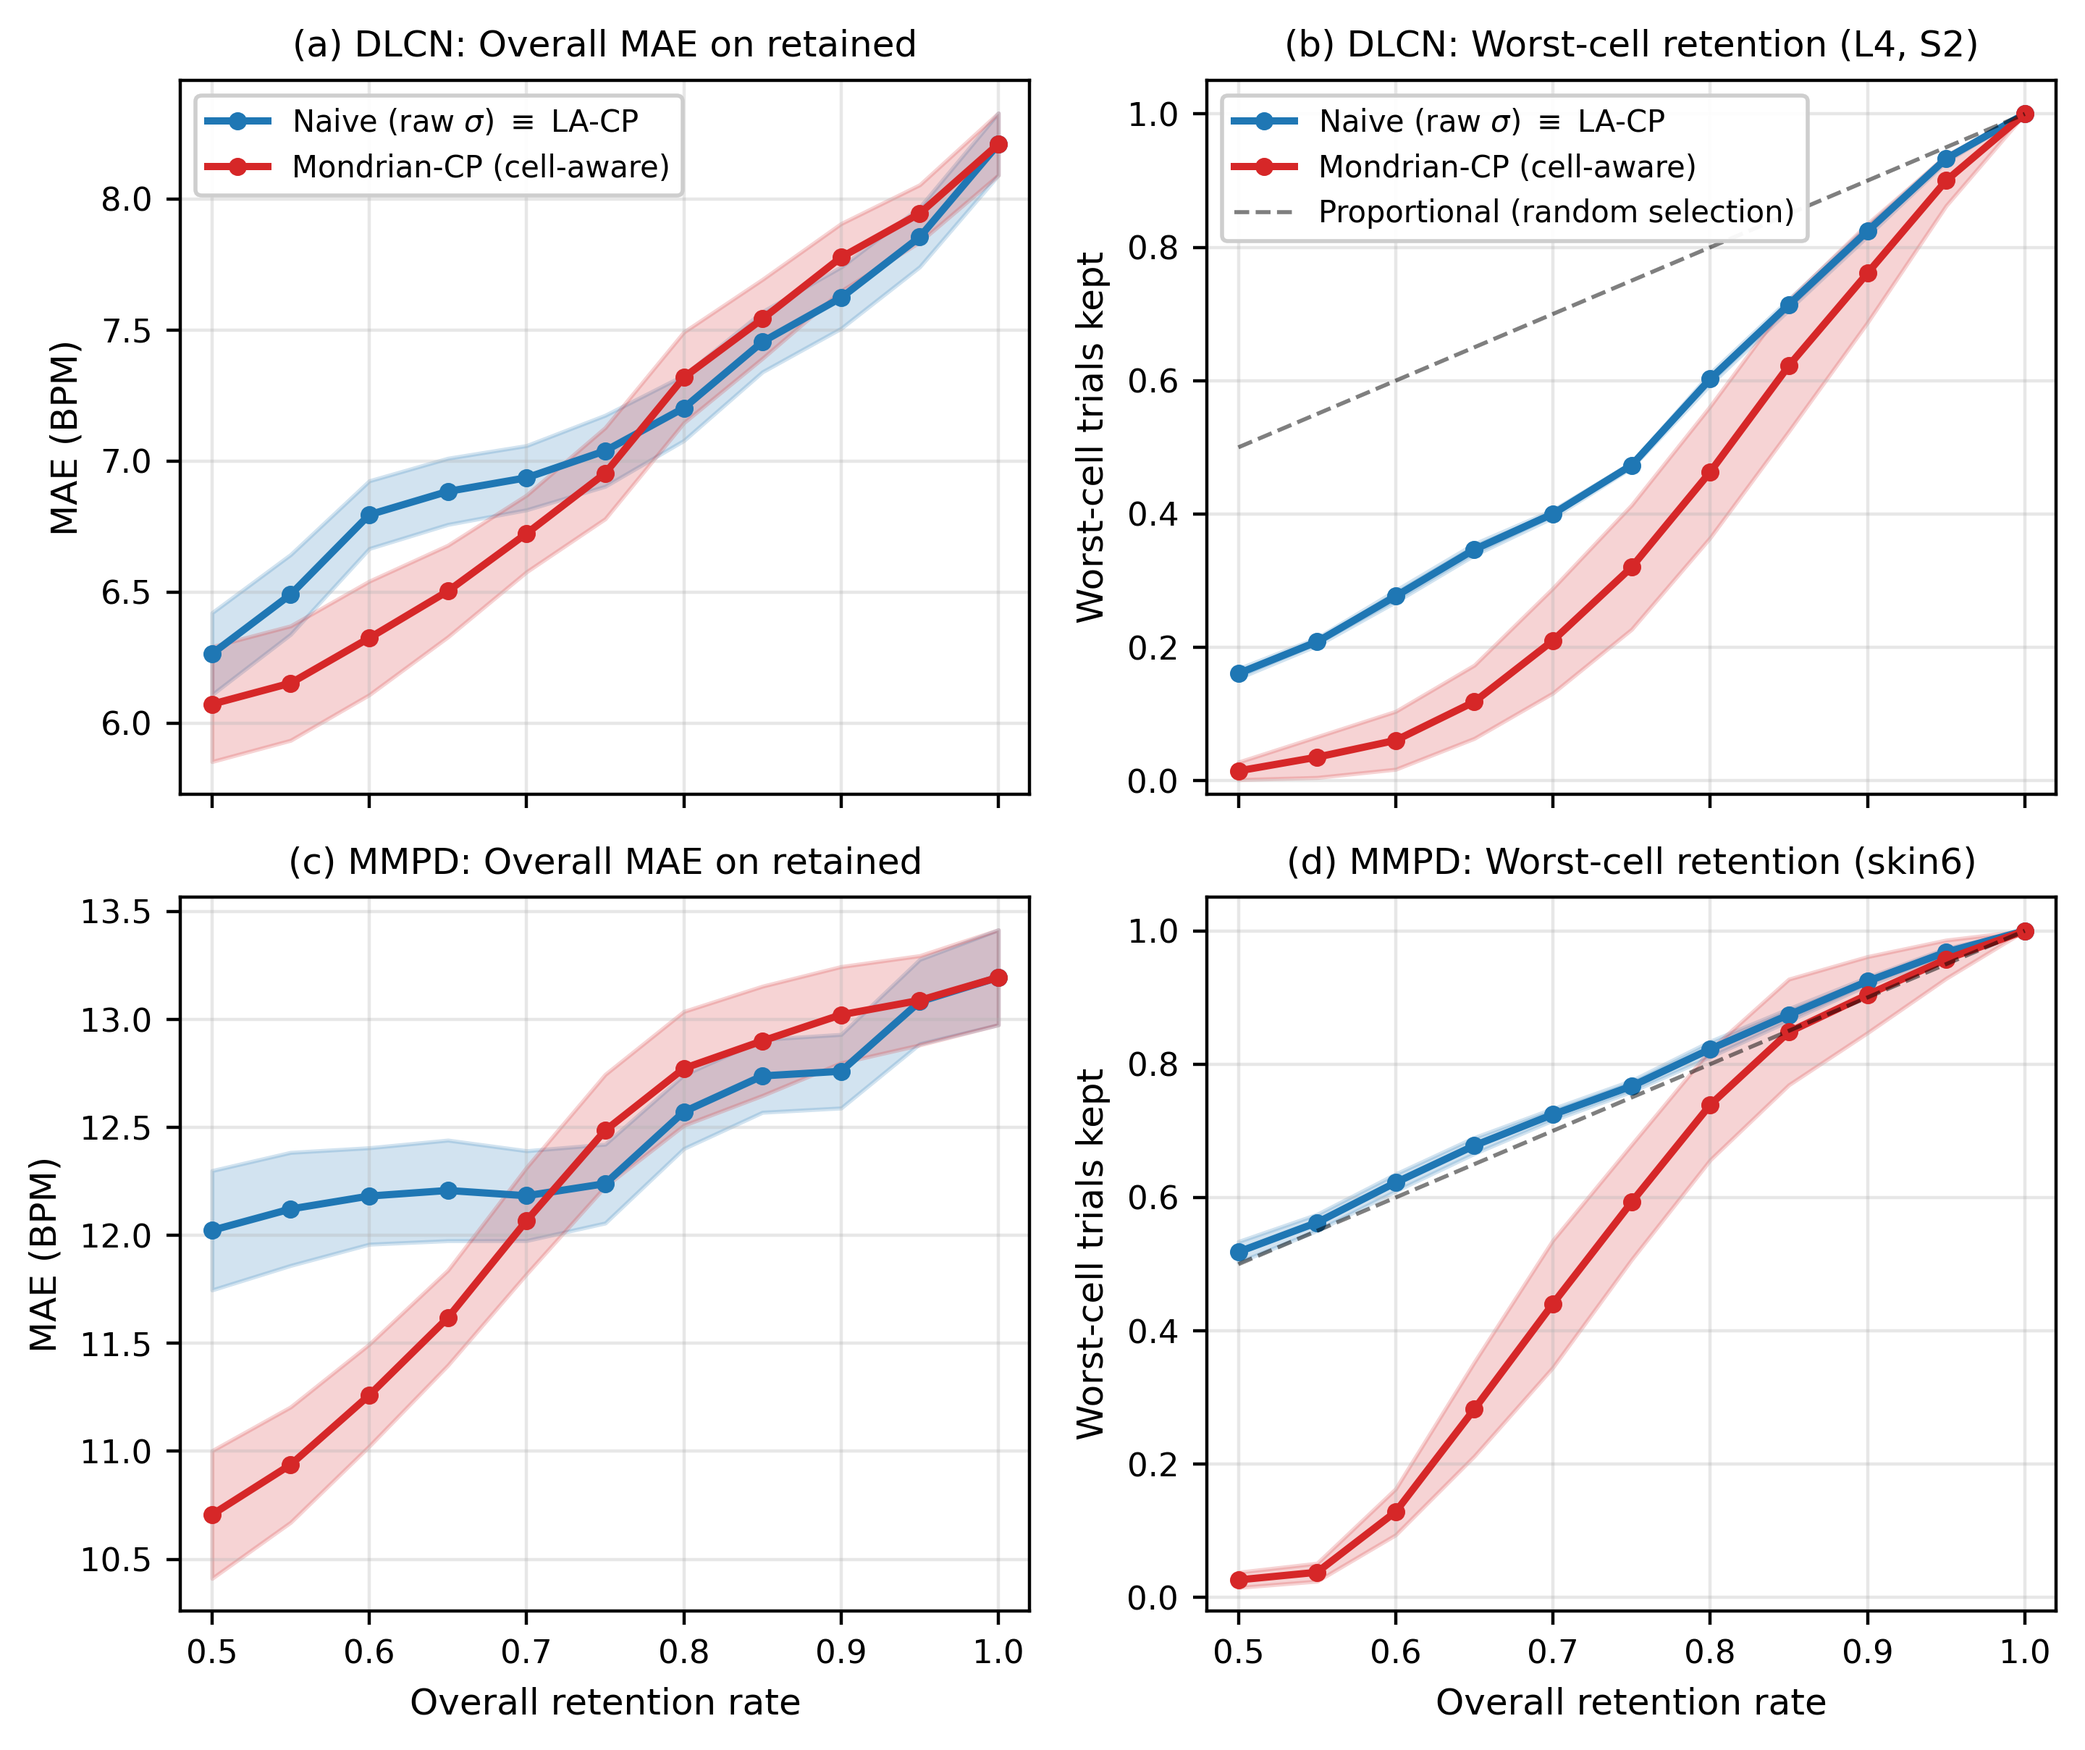
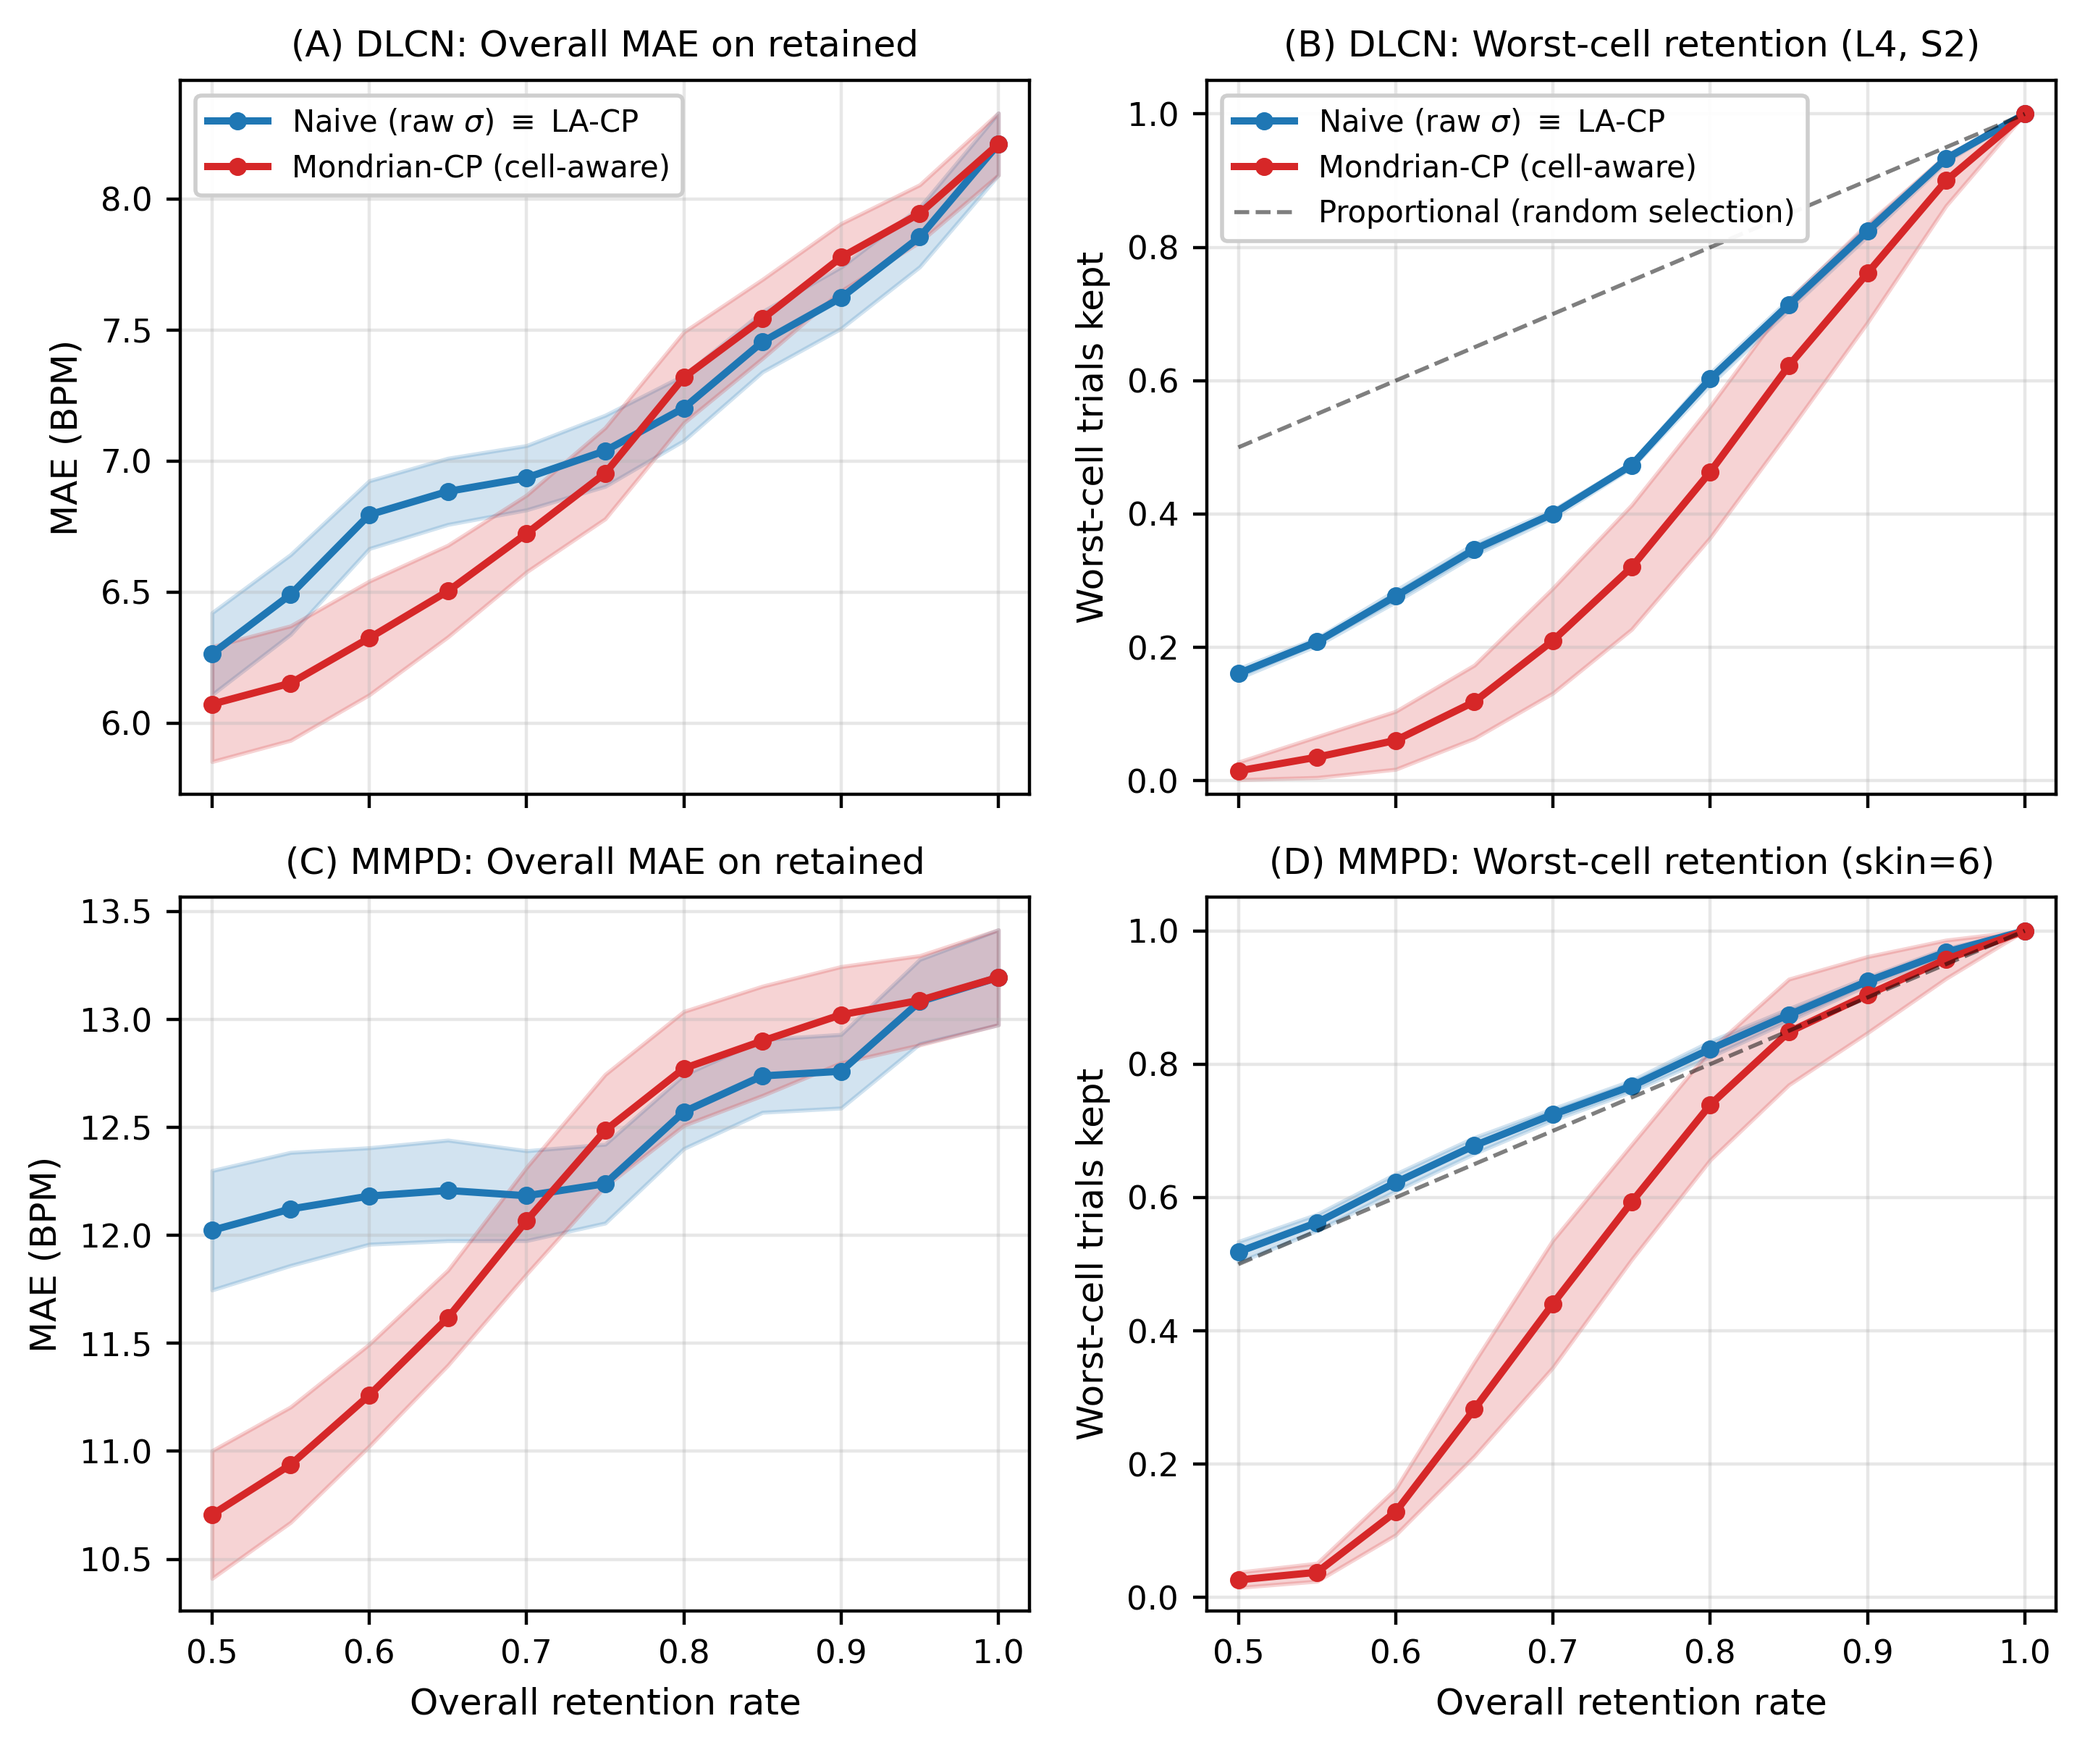
Clarify toolbox setup and align figure panel labels

diff --git a/scripts/plot_selective_combined.py b/scripts/plot_selective_combined.py
@@ -101,9 +101,9 @@ def main():
                              sharex=True)
 
     draw_row(axes[0], dlcn, args.dlcn_label, args.dlcn_worst,
-             ("a", "b"), show_legend=True)
+             ("A", "B"), show_legend=True)
     draw_row(axes[1], mmpd, args.mmpd_label, args.mmpd_worst,
-             ("c", "d"), show_legend=False)
+             ("C", "D"), show_legend=False)
 
     for ax in axes[1]:
         ax.set_xlabel("Overall retention rate")

diff --git a/toolbox_patches/README.md b/toolbox_patches/README.md
@@ -1,8 +1,8 @@
 # rPPG-Toolbox modifications
 
-The inference results in `results/` were produced with
-[rPPG-Toolbox](https://github.com/ubicomplab/rPPG-Toolbox) at commit
-`1c6511f131bd52a1dd31255423b62439dae07cd7`, with the files in this folder copied over the toolbox tree.
+The patches in this directory were validated against upstream
+[rPPG-Toolbox](https://github.com/ubicomplab/rPPG-Toolbox) commit
+`b7500b848f84ad7f86e277b4612563b69f4f88f9`.
 Relative paths are preserved: `toolbox_patches/<path>` replaces `<path>` in the toolbox.
 
 | Toolbox path | Change |
@@ -19,9 +19,9 @@ Relative paths are preserved: `toolbox_patches/<path>` replaces `<path>` in the 
 | `neural_methods/trainer/__init__.py` | Registers the two trainers |
 
 ```bash
-git clone [https://github.com/ubicomplab/rPPG-Toolbox.git](https://github.com/ubicomplab/rPPG-Toolbox.git)
+git clone https://github.com/ubicomplab/rPPG-Toolbox.git
 cd rPPG-Toolbox
-git checkout 1c6511f131bd52a1dd31255423b62439dae07cd7
+git checkout b7500b848f84ad7f86e277b4612563b69f4f88f9
 cp -r /path/to/rppg-uq-audit/toolbox_patches/* .
 cp -r /path/to/rppg-uq-audit/tools .
 ```
